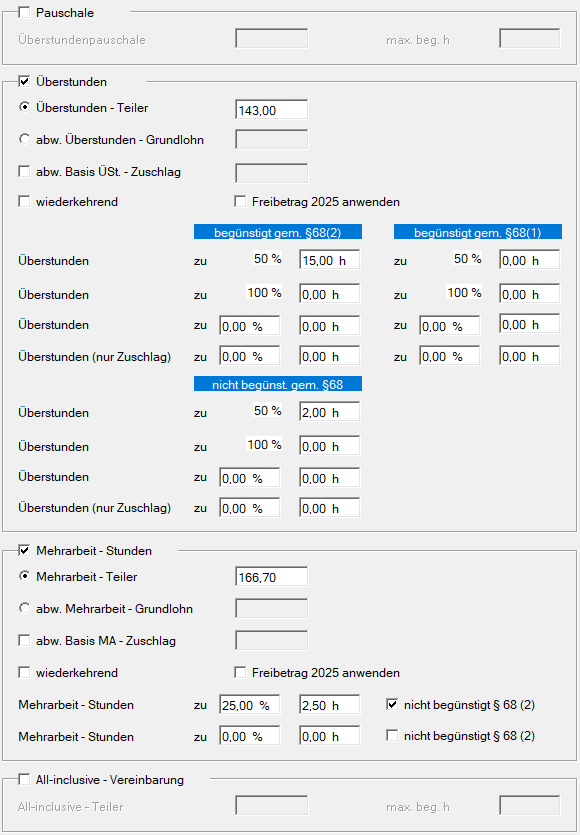
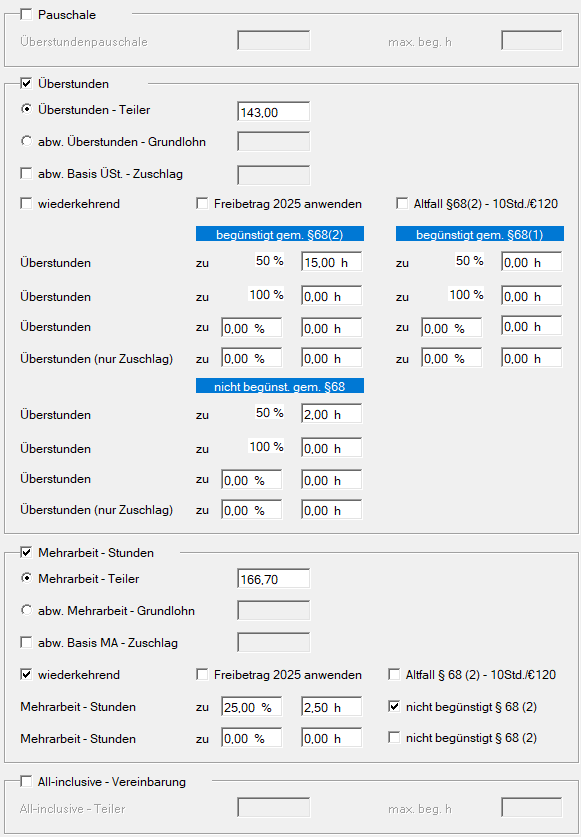
LOHN: Änderungen 2.26.2.0 (#155)
* Änderung Abrechnung einer Wiedereingliederungsteilzeit bzw. Bildungsteilzeit: Für Bildungsteilzeit muss keine erhöhte BV-Bemessung abgerechnet werden

* Anpassung Seitenname und .pages

* Anpassung Abrechnungsbildschirm Über-/Mehrarbeitsstunden an die neue gesetzliche Regelung

* Textliche Anpassungen (Korrektur Rechtschreibung)

* Klientenstamm: ZVR Zahl, EFZ: BIldschirm geändert

* Dienstnehmersuche: Erst ab 2016 möglich

Changed region(s): [[0.0, 0.0, 1.0, 0.9964], [0.3414, 0.6539, 0.9621, 0.903], [0.3414, 0.4671, 0.3724, 0.4982]]

diff --git a/docs/LOHN/Abrechnungsbildschirme/Ueber_und_Mehrarbeitsstunden.md b/docs/LOHN/Abrechnungsbildschirme/Ueber_und_Mehrarbeitsstunden.md
@@ -4,7 +4,7 @@
 
 ## Pauschale
 
-Ist eine Überstunden-Pauschale abzurechnen, so ist das Auswahlfeld zu aktivieren und der Betrag der Überstunden-Pauschale einzugeben. Damit das Programm den steuerfreien Zuschlag ermitteln kann, muss entweder der *Überstunden-Teiler* oder der *abweichende Überstunden-Grundlohn* eingetragen werden. Wenn im Feld maximal begünstigte Stunden kein niedrigerer Eintrag erfolgt, werden die Zuschläge gemäß § 68 Abs. 2 für 10 Stunden (bis 2025: 18 Stunden) pro Monat steuerfrei gerechnet (maximal EUR 120,00 (bis 2025: EUR 200,00) pro Monat).
+Ist eine Überstunden-Pauschale abzurechnen, so ist das Auswahlfeld zu aktivieren und der Betrag der Überstunden-Pauschale einzugeben. Damit das Programm den steuerfreien Zuschlag ermitteln kann, muss entweder der *Überstunden-Teiler* oder der *abweichende Überstunden-Grundlohn* eingetragen werden. Wenn im Feld maximal begünstigte Stunden kein niedrigerer Eintrag erfolgt, werden die Zuschläge gemäß § 68 Abs. 2 gerechnet.
 
 Soll **kein** Freibetrag gerechnet werden, dann geben Sie bei *max. beg. h* Null ein und machen Sie einen rechten Mausklick und wählen Sie *Explizit 0* aus.
 
@@ -34,9 +34,15 @@ Durch den Wechsel des Freibetrags gemäß § 68(2) von 2025 auf 2026 besteht in 
 
 Wenn dieses Feld aktiviert wird, wird automatisch auch das Feld bei den *Mehrarbeitsstunden* aktiviert. Beide Felder sind miteinander synchronisiert.
 
+**Altfall §68(2) - 10Std./€120**
+
+Aufgrund der kurzfristigen gesetzlichen Änderung des § 68 Abs. 2 werden bis einschließlich Version 2.26.1.1 weiterhin die bisher für 2026 gültigen Werte (max. 10 Überstunden / EUR 120,00) herangezogen. Ab Version 2.26.2.0 erfolgt die Berechnung auf Basis der neuen Werte (max. 15 Überstunden / EUR 170,00).
+
+Eine ausführliche Erläuterung finden Sie in der [Kurzanleitung](../Kurzanleitungen/Ueberstunden_2026.md).
+
 **Begünstigte Überstunden § 68(2)**
 
-Unter *begünstigte Überstunden § 68(2)* sind die „normalen“ Überstunden einzugeben, die nicht in der Nacht geleistet werden. Vom Programm werden davon automatisch die ersten 10 Überstunden (bis 2025: 18 Überstunden) gemäß § 68 (2) EStG als steuerfrei (bis maximal EUR 120,00 (bis 2025: max. EUR 200,00)) behandelt.
+Unter *begünstigte Überstunden § 68(2)* sind jene „normalen“ Überstunden zu erfassen, die nicht in der Nacht geleistet werden. Das Programm berücksichtigt davon automatisch die gemäß § 68 Abs. 2 EStG jeweils gesetzlich begünstigte Anzahl an Überstunden und behandelt diese bis zum gesetzlich festgelegten Höchstbetrag als steuerfrei.
 
 **Begünstigte Überstunden § 68(1)**
 
@@ -80,6 +86,12 @@ Durch den Wechsel des Freibetrags gemäß § 68(2) von 2025 auf 2026 besteht in 
 
 Wenn dieses Feld aktiviert wird, wird automatisch auch das Feld bei den *Überstunden* aktiviert. Beide Felder sind miteinander synchronisiert.
 
+**Altfall §68(2) - 10Std./€120**
+
+Aufgrund der kurzfristigen gesetzlichen Änderung des § 68 Abs. 2 werden bis einschließlich Version 2.26.1.1 weiterhin die bisher für 2026 gültigen Werte (max. 10 Überstunden / EUR 120,00) herangezogen. Ab Version 2.26.2.0 erfolgt die Berechnung auf Basis der neuen Werte (max. 15 Überstunden / EUR 170,00).
+
+Eine ausführliche Erläuterung finden Sie in der [Kurzanleitung](../Kurzanleitungen/Ueberstunden_2026.md).
+
 **Mehrarbeit-Stunden zu …**
 
 Eingabe des Prozentsatzes und der Stunden für die Mehrarbeit. Werden die Mehrarbeit-Stunden ohne Zuschlag geleistet, so ist kein Prozentsatz einzugeben.
@@ -90,7 +102,9 @@ Wird das Feld *nicht begünstigt gemäß § 68 (2)* angewählt, erfolgt keine be
 
 Wenn eine All-inclusive-Vereinbarung getroffen wurde, können Sie hier den *Gesamtstundenteiler* eintragen.
 
-Wenn im Feld *maximal begünstigte Stunden* kein niedrigerer Eintrag erfolgt, werden die Zuschläge gemäß § 68 Abs. 2 für 10 Überstunden (bis 2025: 18 Stunden) pro Monat steuerfrei gerechnet (maximal EUR 120,00 (bis 2025: max. 200,00) pro Monat). Soll keine Begünstigung § 68 (2) zur Anwendung gelangen, dann geben Sie im Feld *maximal begünstigte Stunden* Null ein und machen Sie einen rechten Mausklick und wählen Sie *Explizit 0* aus.
+Wenn im Feld *maximal begünstigte Stunden* kein niedrigerer Wert eingetragen wird, werden die Zuschläge gemäß § 68 Abs. 2 EStG automatisch bis zur jeweils gesetzlich begünstigten Anzahl an Überstunden und bis zum gesetzlich festgelegten Höchstbetrag pro Monat steuerfrei berücksichtigt.
+
+Soll keine Begünstigung nach § 68 Abs. 2 EStG zur Anwendung kommen, tragen Sie im Feld *maximal begünstigte Stunden* den Wert 0 ein, führen Sie einen Rechtsklick aus und wählen Sie *Explizit 0*.
 
 ![Image](<img/image116.png>){width="600"}
 

diff --git a/docs/LOHN/Abrechnungen_Sonderfälle/Abrechnung_Wiedereingliederungsteilzeit.md b/docs/LOHN/Abrechnungen_Sonderfälle/Abrechnung_Wiedereingliederungsteilzeit.md
@@ -1,0 +1,14 @@
+# Abrechnung einer Wiedereingliederungsteilzeit
+
+Der Dienstnehmer erhält während der Wiedereingliederungsteilzeit das Teilzeitgehalt / den Teilzeitlohn auf Basis seiner Wochenarbeitszeit während der Wiedereingliederungsteilzeit. Das bedeutet, dass ein Dienstnehmer, der eine Normalarbeitszeit von 40 Wochenstunden hatte und jetzt während der Wiedereingliederungsteilzeit nur 50 % arbeitet, sein Gehalt bzw. seinen Lohn reduziert um 50 % erhält. Diesen neuen Bruttobezug geben Sie in den *Fixen Lohnarten* ein.
+
+Für die Dauer der Wiedereingliederungsteilzeit nach § 13a Arbeitsvertragsrechts-Anpassungsgesetz (AVRAG) sind von der Dienstgeberin bzw. vom Dienstgeber BV-Beiträge auf Basis des monatlichen Entgeltes sowie der Sonderzahlungen vor Herabsetzung der Normalarbeitszeit zu entrichten. Damit Sie die BV-Bemessungsgrundlage entsprechend erhöhen können, legen Sie sich eine freie Lohnart an.
+
+![Image](<img/image523.png>){width="500"}
+
+In der Abrechnung wird dann nur die BV-Bemessung erhöht.
+
+![Image](<img/image524.png>){width="600"}
+
+!!! warning "Hinweis"
+    Diese Lohnart für die Erhöhung der BV-Bemessung können Sie sowohl für die laufenden Bezüge als auch für die Sonderzahlung verwenden.

diff --git a/docs/LOHN/Bauarbeiter_Urlaubs-und_Abfertigungskasse/Eintragung_des_Betriebskennzeichens_Kennzeichnung_der_Direktauszahlung.md b/docs/LOHN/Bauarbeiter_Urlaubs-und_Abfertigungskasse/Eintragung_des_Betriebskennzeichens_Kennzeichnung_der_Direktauszahlung.md
@@ -2,7 +2,7 @@
 
 Seit 1.1.2014 können die Meldungen der Unternehmen an die Bauarbeiter- Urlaubs- und Abfertigungskasse nicht mehr in Papierform eingereicht werden. Die Meldungen müssen entweder in den Portalanwendungen der BUAK manuell erfasst werden oder können mittels xml-Datei im BUAK Portal importiert werden.
 
-Das Lohnprogramm bietet die Möglichkeit, die Monatsmeldungen, die Urlaubsentgelt-Verrechnung (nur bei Unternehmen mit Treuhandkonto, nicht bei Direktauszahlung von Urlaubsentgelt und Zuschuss) und die Austrittsmeldung elektronisch an die BUAK zu übermitteln. Eine Übermittlung der Meldung der Schlechtwetterentschädigung ist derzeit nicht möglich.
+Das Lohnprogramm bietet die Möglichkeit, die Monatsmeldungen, die Urlaubsentgelt-Verrechnung (nur bei Unternehmen mit Treuhandkonto, nicht bei Direktauszahlung von Urlaubsentgelt und Zuschuss), die Austrittsmeldung sowie die Meldung der Schlechtwetterentschädigung elektronisch an die BUAK zu übermitteln.
 
 Die von der BUAK zur Verfügung gestellte Monatsrückmeldung kann in die Lohnverrechnung importiert werden. Innerhalb der Abrechnungsbildschirme kann die Zuschlagsverrechnungsliste aufgerufen werden.
 

diff --git a/docs/LOHN/Abrechnungen_Sonderfälle/Abrechnung_Mutterschutz_und_Karenzurlaub.md b/docs/LOHN/Abrechnungen_Sonderfälle/Abrechnung_Mutterschutz_und_Karenzurlaub.md
@@ -52,7 +52,7 @@ Wird die letzte Abrechnung dann abgespeichert, erhalten Sie vom Programm wie gew
 
 Tritt bei einer Dienstnehmerin während des laufenden Karenzurlaubs erneut ein Mutterschutz ein, ist sie für die Betriebliche Vorsorge wieder bei der ÖGK anzumelden.
 
-In diesem Fall führen Sie im Monat des Beginns des neuerlichen Mutterschutzes einen Wiedereintritt durch. Öffnen Sie dazu den [*Eintrittsbildschrim*](../Abrechnungsbildschirme/Eintritt.md) und erfassen Sie im Feld *Eintrittsdatum* den ersten Tag des Mutterschutzes.
+In diesem Fall führen Sie im Monat des Beginns des neuerlichen Mutterschutzes einen Wiedereintritt durch. Öffnen Sie dazu den [*Eintrittsbildschirm*](../Abrechnungsbildschirme/Eintritt.md) und erfassen Sie im Feld *Eintrittsdatum* den ersten Tag des Mutterschutzes.
 
 Anschließend wechseln Sie in den [*Austrittsbildschirm*](../Abrechnungsbildschirme/Austritt.md), wo Sie im Bereich *Mutterschutz / Karenzurlaub* den *voraussichtlichen Geburtstermin* eintragen. Das Programm schlägt Ihnen daraufhin automatisch den *Beginn Mutterschutz* vor und trägt im oberen Bereich den Austritt mit dem Grund Wochengeld ein.
 

diff --git a/docs/LOHN/Bauarbeiter_Urlaubs-und_Abfertigungskasse/Abrechnungsbildschirm_Bauarbeiter_Urlaubs_und_Abfertigungskasse.md b/docs/LOHN/Bauarbeiter_Urlaubs-und_Abfertigungskasse/Abrechnungsbildschirm_Bauarbeiter_Urlaubs_und_Abfertigungskasse.md
@@ -17,7 +17,7 @@ Zudem bewirkt die Option, dass für weitere sonstige Bezüge (Weihnachtsremunera
 
 Im ersten Bereich des Abrechnungsbildschirmes muss zunächst der Haken im Feld *Bauarbeiter- Urlaubs- und Abfertigungskasse (BUAK)* gesetzt werden.
 
-Das in den Klientenstammdaten im *Registerblatt NeuFöG, BUAK, ELDA* eingetragen *Betriebskennzeichen* und die *Direktauszahlung* ja/nein werden angezeigt. Wenn [Direktauszahlung](../Abrechnungsbildschirme/Fixe_Lohnarten.md) aktiviert ist, kann die Urlaubsentgelt-Verrechnung nicht durchgeführt werden. Die Erfassung ist derzeit nur manuell am Portal der BUAK möglich.
+Das in den Klientenstammdaten im *Registerblatt NeuFöG, BUAK, ELDA* eingetragene *Betriebskennzeichen* und die *Direktauszahlung* ja/nein werden angezeigt. Wenn [Direktauszahlung](../Abrechnungsbildschirme/Fixe_Lohnarten.md) aktiviert ist, kann die Urlaubsentgelt-Verrechnung nicht durchgeführt werden. Die Erfassung ist derzeit nur manuell am Portal der BUAK möglich.
 
 **Arbeitnehmerkennzeichen**
 

diff --git a/docs/LOHN/Allgemeines/Dienstnehmersuche.md b/docs/LOHN/Allgemeines/Dienstnehmersuche.md
@@ -25,6 +25,9 @@ Es kann hier zum Beispiel nach der *Beitragskontonummer*, dem *ÖGK-Bundesland* 
 
 ![Image](<img/imageA21.png>)
 
+!!! warning "Hinweis"
+    Die Dienstnehmersuche ist erst ab dem Klientenjahr **2016** verfügbar. Klientenjahre vor 2016 werden bei der Dienstnehmersuche nicht berücksichtigt.
+
 ## Funktion DN-Suche schützen/sperren
 
 Mit der Schaltfläche *Passwort* kann die Benutzung der Funktion kanzleiweit mit einem Passwort versehen werden.

diff --git a/docs/LOHN/Klientenstammdaten/Stammdaten_Klient/ZVR_Zahl.md b/docs/LOHN/Klientenstammdaten/Stammdaten_Klient/ZVR_Zahl.md
@@ -1,4 +1,4 @@
-# ZVR Zahl
+# ZVR Zahl, EFZ
 
 Die ZVR-Zahl ist für das Formular L19 ein Pflichtfeld. Die ZVR-Zahl können Sie unter *Stamm / Klient* im *Registerblatt ZVR Zahl* im RZL-Lohnprogramm hinterlegen.
 
